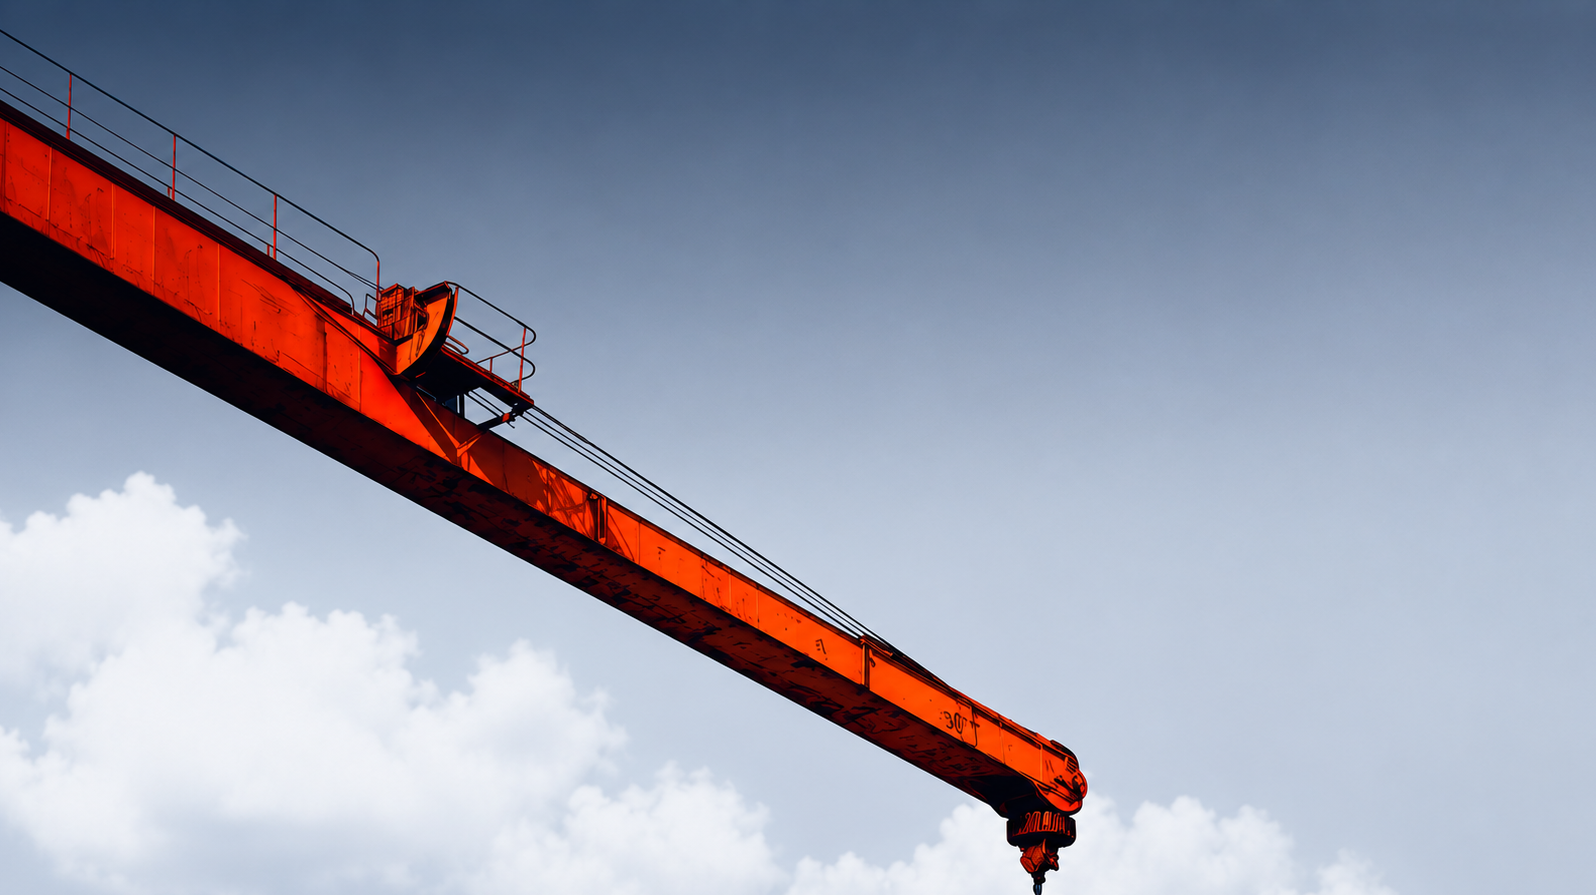
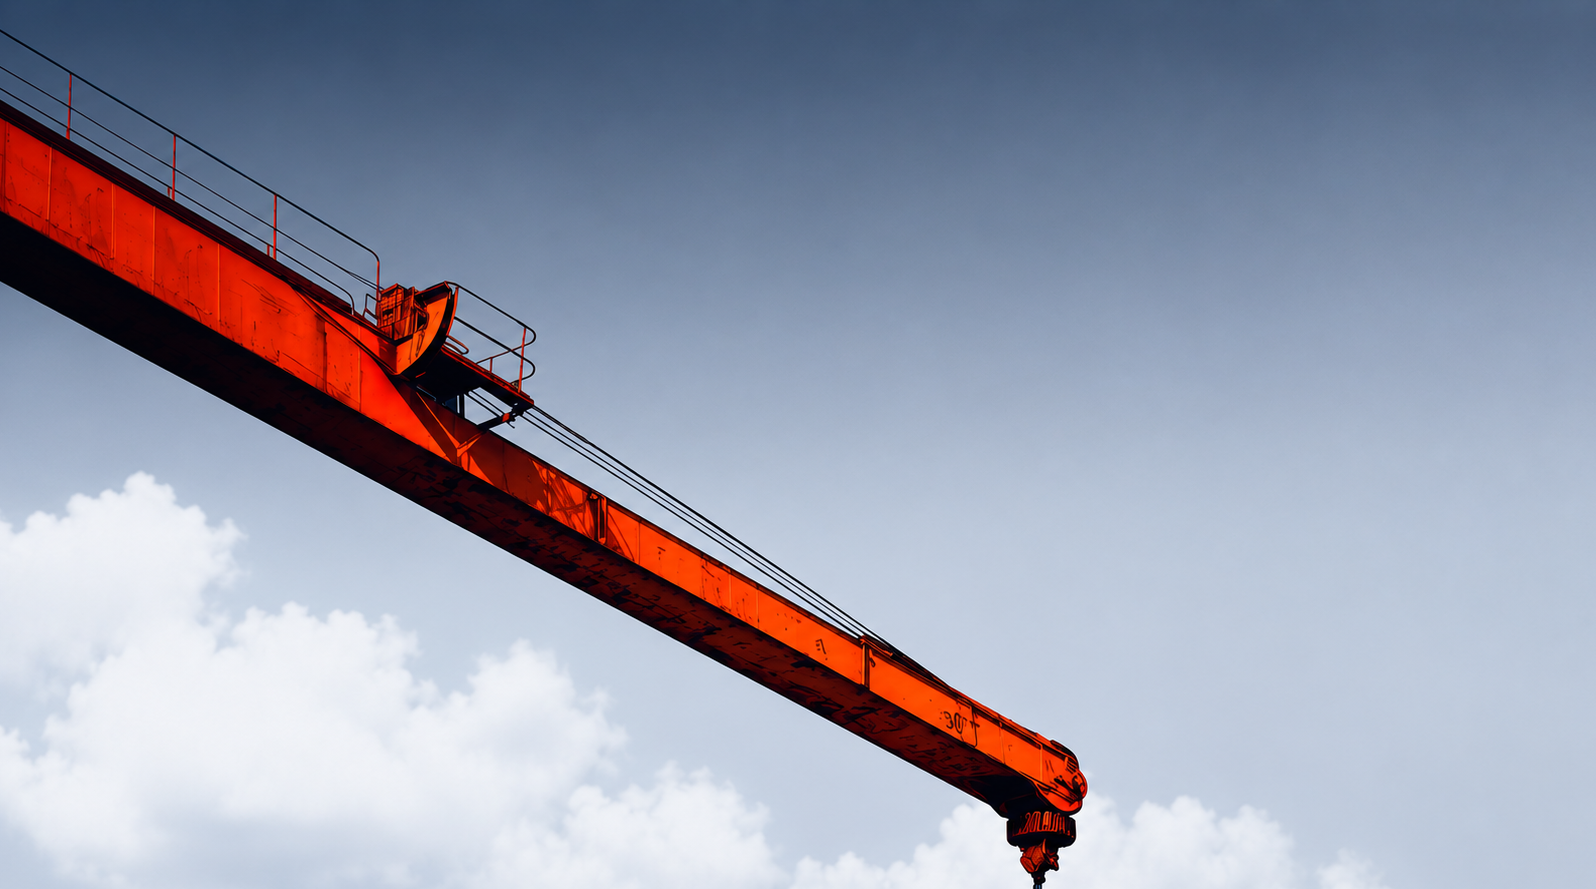
updated

diff --git a/index.html b/index.html
@@ -236,7 +236,7 @@
 
     .sec2-container-wrap {
       position: absolute;
-      top: 130px;
+      top: 60px;
       left: 50%;
       transform: translateX(-50%);
       width: 100%;
@@ -261,11 +261,11 @@
     .centered-container-img::before {
       content: '';
       position: absolute;
-      top: -400px;
-      left: 50.3%;
+      top: -250px;
+      left: 50.82%;
       transform: translateX(-50%);
       width: 3px;
-      height: 415px;
+      height: 265px;
       background: linear-gradient(90deg, #090b0d 0%, #1c2228 35%, #38424d 50%, #1c2228 65%, #090b0d 100%);
       box-shadow: 0 0 5px rgba(0, 0, 0, 0.5);
       z-index: 1;
